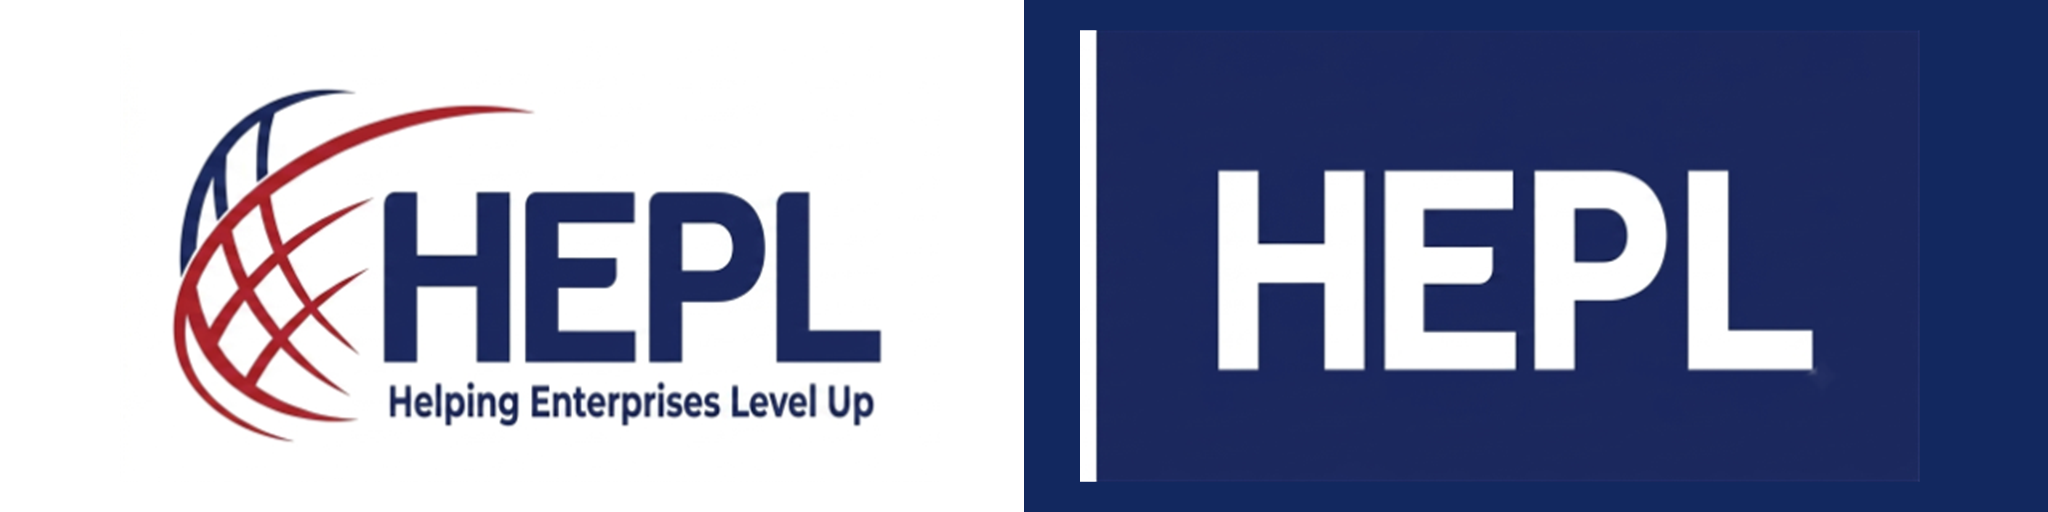
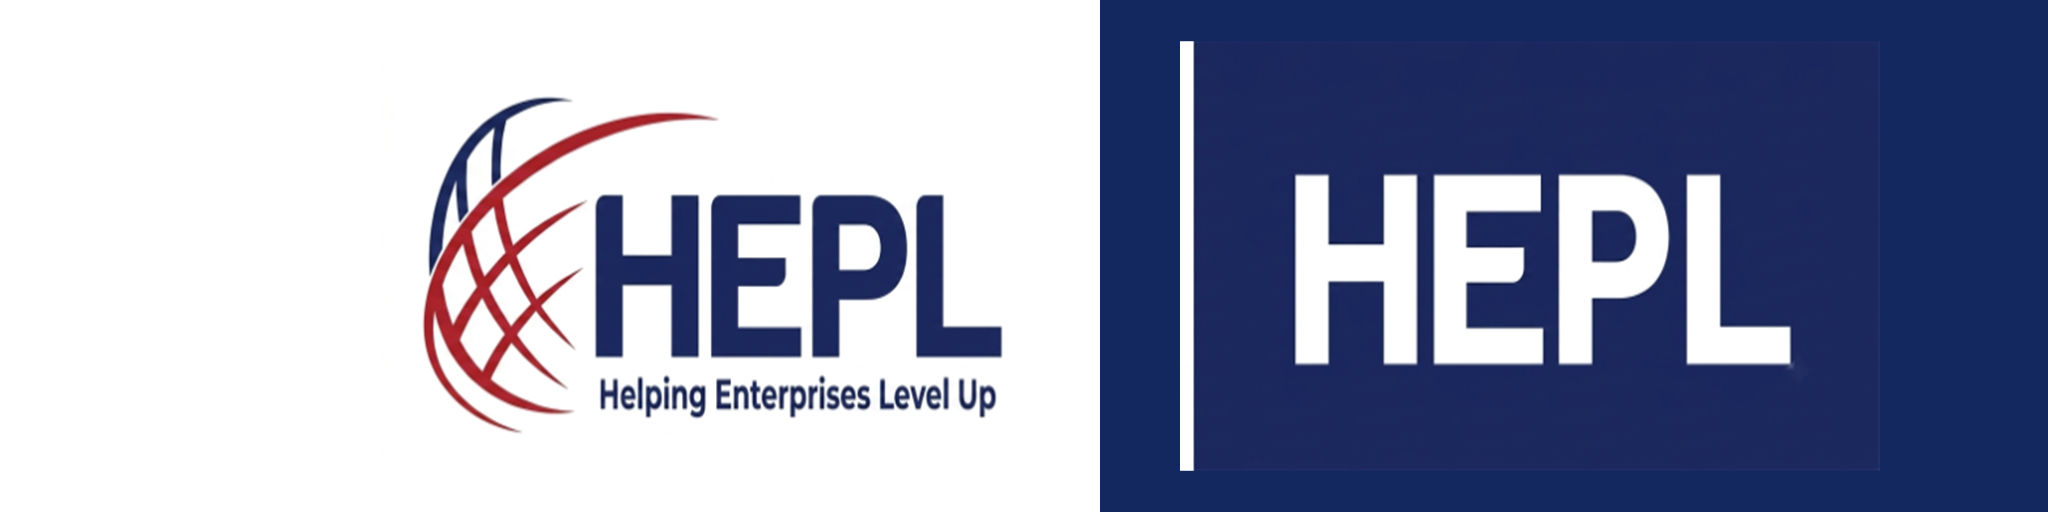
feat: refine lanyard textures with generous hook buffer for 100% resting visibility
- Re-composited HEPL lanyard texture with 380px white buffer on hook side, ensuring complete globe logo and 'H' are 100% visible at normal rest
- Re-composited Madras MindWorks texture with 420px buffer, ensuring full rainbow star logo sits clearly above hook
- Tuned lanyard strap resting length to 2.80 units for natural hang and clear branding without needing to drag

Changed region(s): [[0.0625, 0.0, 0.5625, 1.0], [0.5625, 0.0938, 0.9062, 0.9062]]

diff --git a/assets/lanyard-3d.js b/assets/lanyard-3d.js
@@ -22,8 +22,8 @@
         // Scene setup
         const scene = new THREE.Scene();
         const camera = new THREE.PerspectiveCamera(24, width / height, 0.1, 100);
-        // Position camera to frame the hanging lanyard starting from top ceiling border down to card
-        camera.position.set(0, 0.55, 14.5);
+        // Camera framing to show full lanyard strap and card at normal rest
+        camera.position.set(0, 0.50, 14.8);
 
         const renderer = new THREE.WebGLRenderer({
             alpha: true,
@@ -59,11 +59,11 @@
         const gravity = -38.0;
         const damping = 0.95;
         const angularDamping = 0.93;
-        const segmentLength = 0.60;
+        const segmentLength = 0.70;
         const numSegments = 4;
 
-        // Fixed anchor at top border of the 3D container box
-        const fixedPos = new THREE.Vector3(0, 3.45, 0);
+        // Fixed anchor at top ceiling border of 3D box
+        const fixedPos = new THREE.Vector3(0, 3.50, 0);
         const joints = [];
         for (let i = 0; i < numSegments; i++) {
             joints.push({
@@ -413,7 +413,6 @@
 
                 const vIndex = i * 2;
                 posAttr.setXYZ(vIndex, pt.x - normal.x * halfW, pt.y - normal.y * halfW, pt.z - normal.z * halfW);
-                // Map texture: t=0 (top anchor) -> right text, t=1 (hook) -> left logo
                 uvAttr.setXY(vIndex, (1.0 - t), 0);
 
                 posAttr.setXYZ(vIndex + 1, pt.x + normal.x * halfW, pt.y + normal.y * halfW, pt.z + normal.z * halfW);
